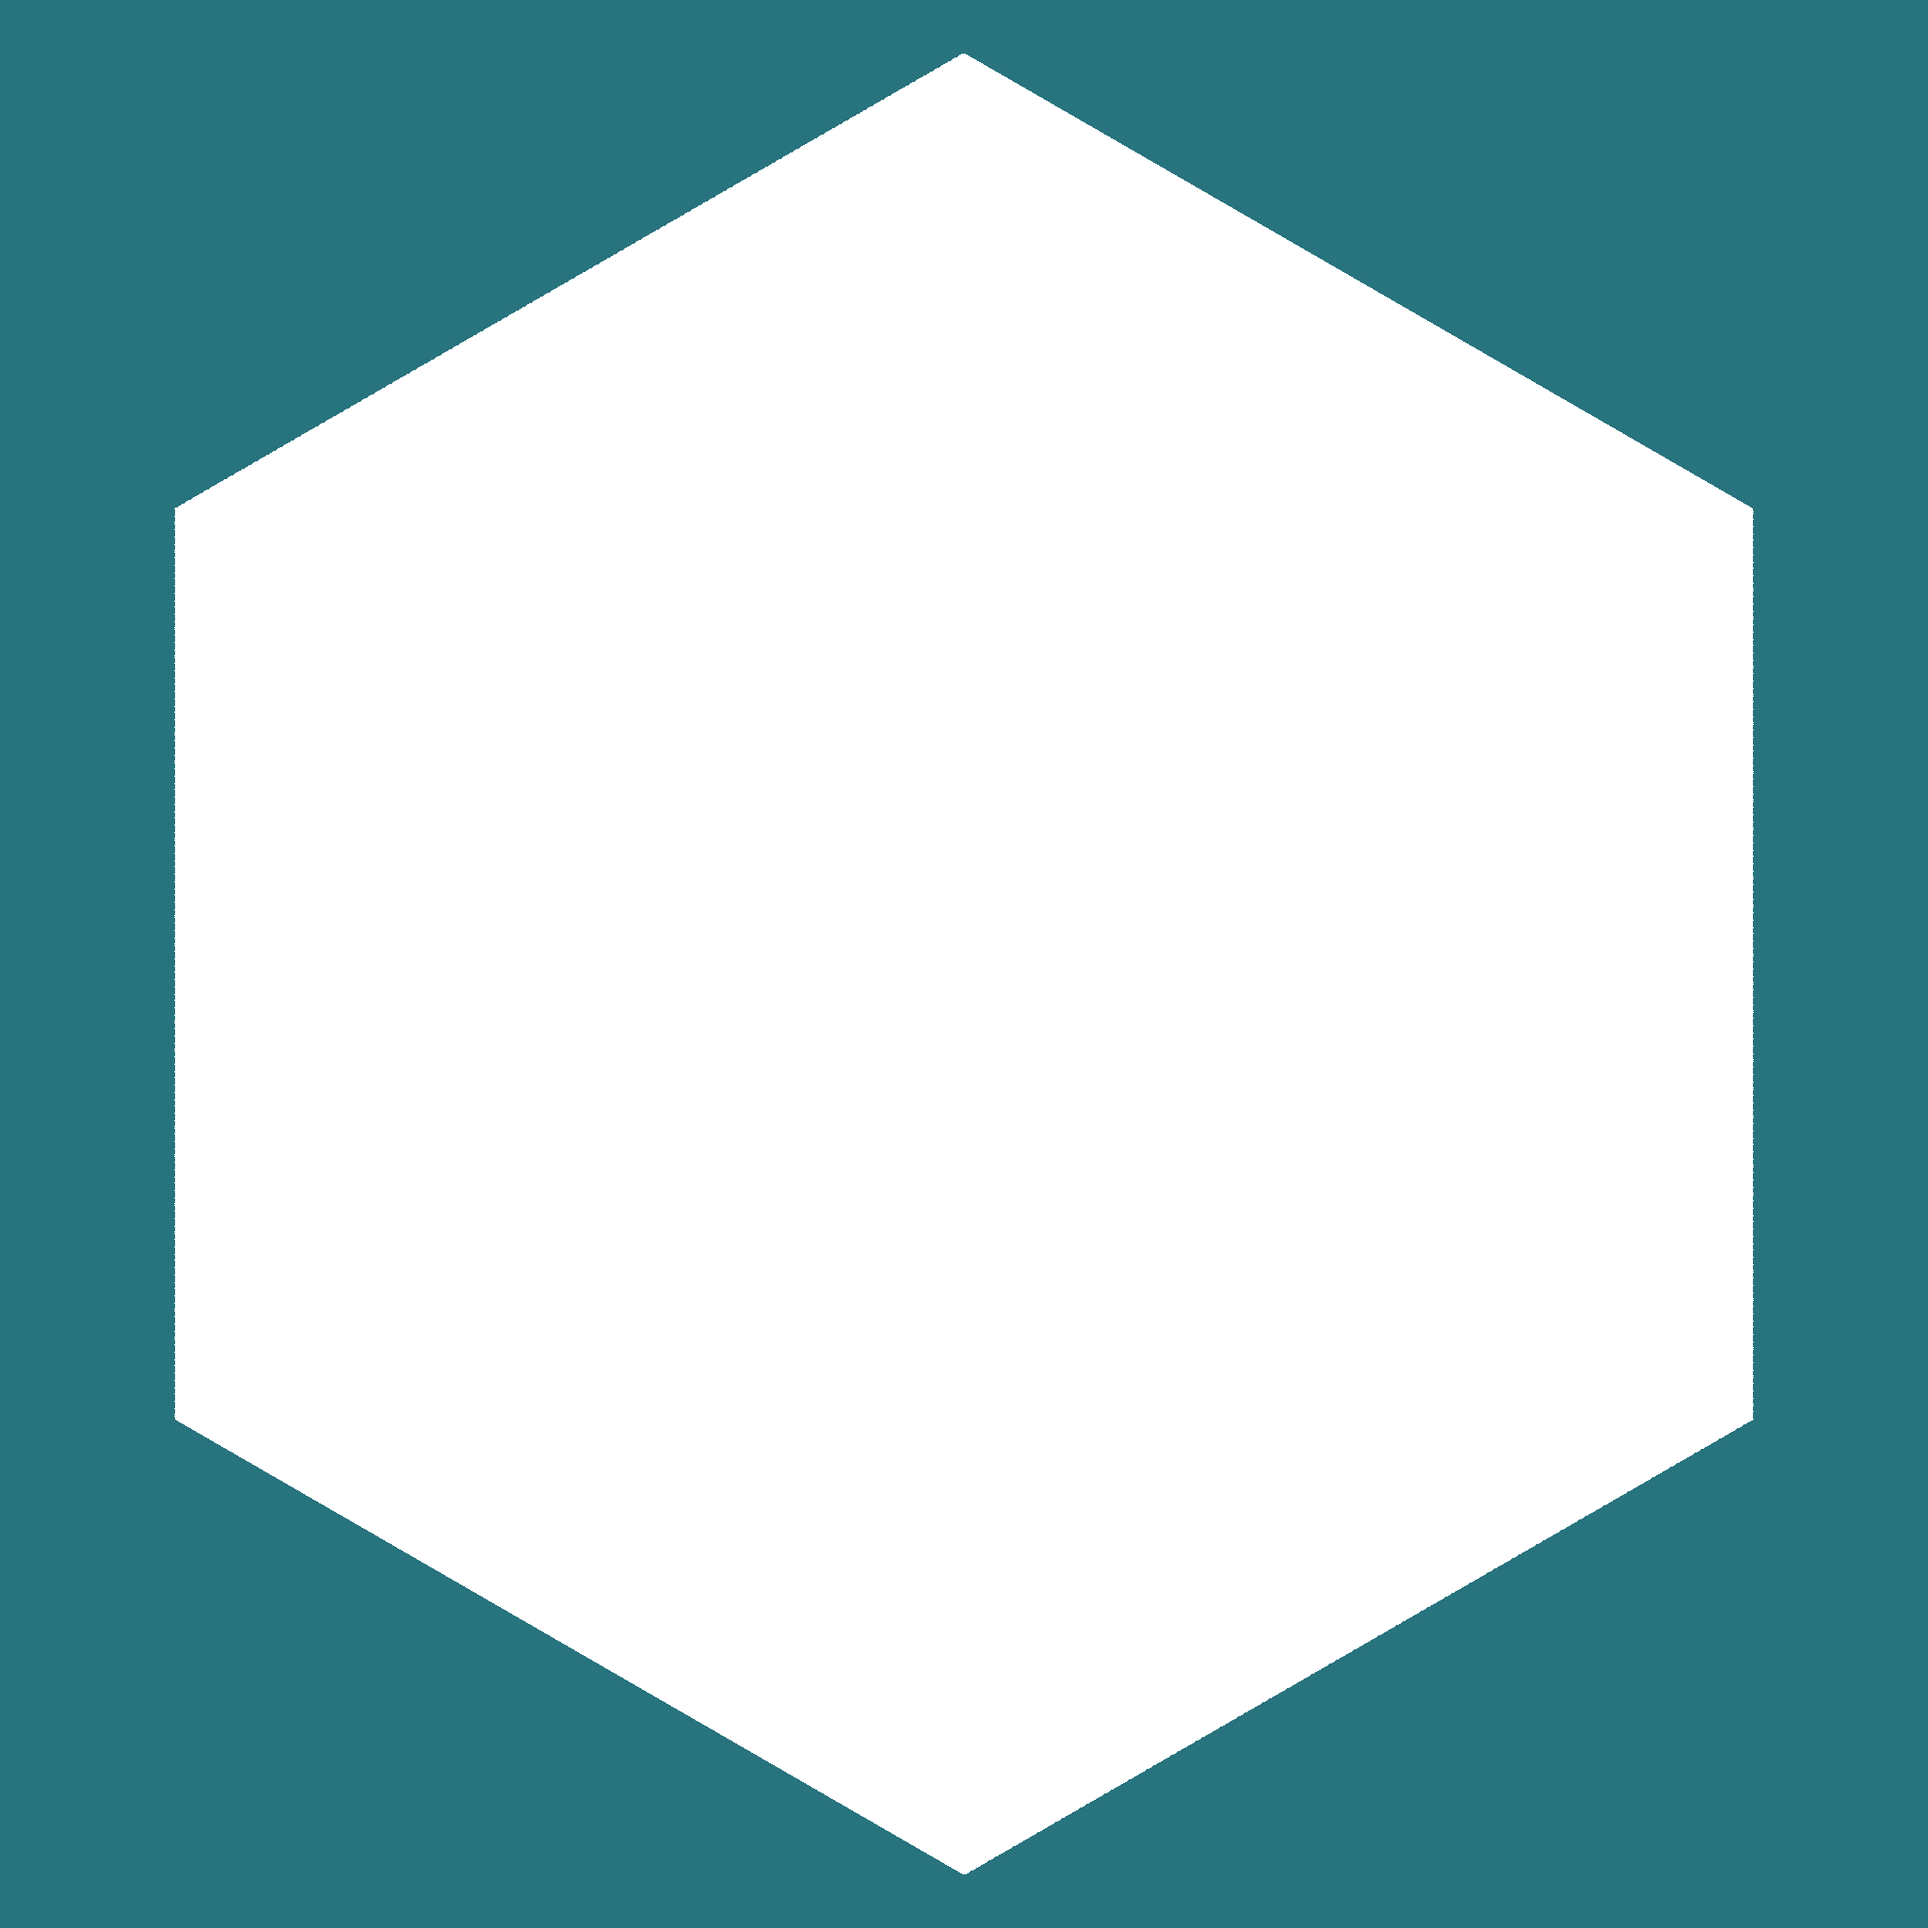
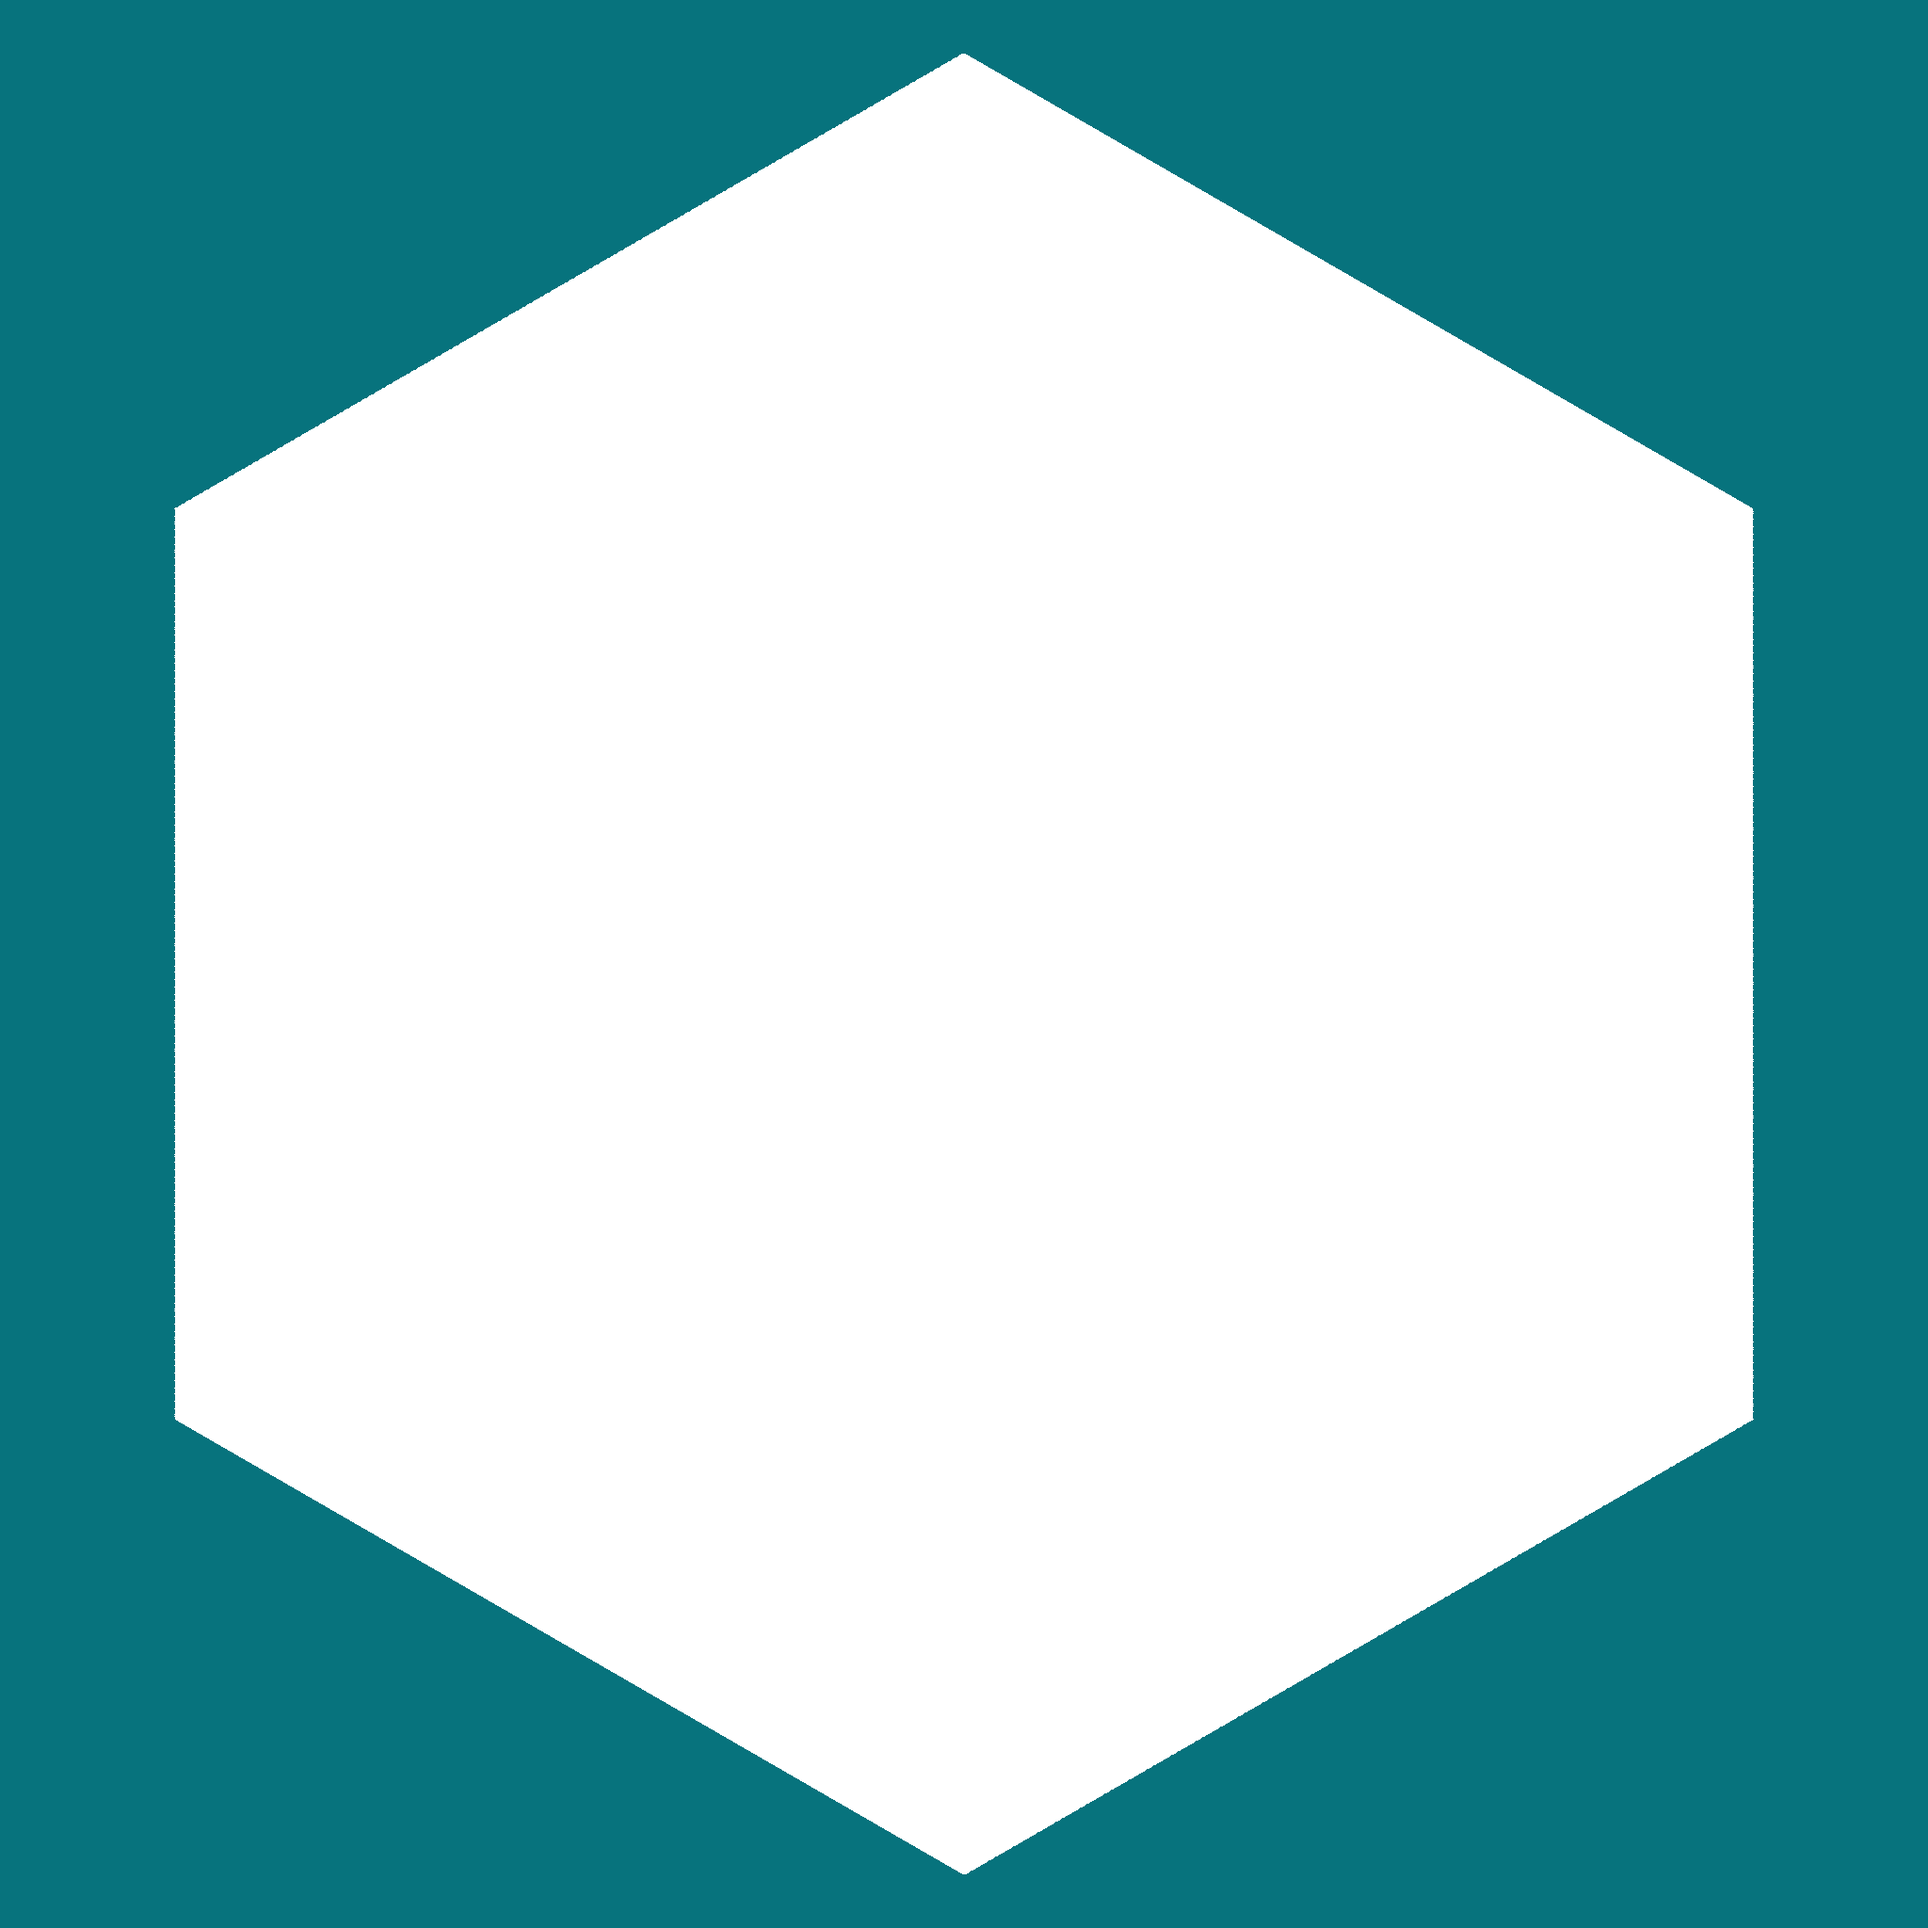
Make thumbnails background transparent

diff --git a/unionGov/gov/views.py b/unionGov/gov/views.py
@@ -102,7 +102,22 @@ def candidate(request, candidate_id):
     return render(request, "gov/candidate.html", {"candidate": candidate})
 
 
-def square(image, size, fill_color=(0, 0, 0, 0)):
+# Turn a given color in image into RGBA transparency
+def color2alpha(image, color=(7, 115, 125)):
+    data = image.getdata()
+    new_data = []
+    for pixel in data:
+        if pixel[0] == color[0] and pixel[1] == color[1] and pixel[2] == color[2]:
+            new_data.append((255, 255, 255, 0))
+        else:
+            new_data.append(pixel)
+    alpha_image = Image.new("RGBA", image.size)
+    alpha_image.putdata(new_data)
+    return alpha_image
+
+
+# Resize and crop an image to make it fill a square
+def square(image, size=256, fill_color=(0, 0, 0, 255)):
     x, y = image.size
     max_size = max(size, x, y)
     squared_image = Image.new("RGBA", (max_size, max_size), fill_color)
@@ -110,13 +125,13 @@ def square(image, size, fill_color=(0, 0, 0, 0)):
     return squared_image.resize((size, size), Image.ANTIALIAS)
 
 
-def get_thumbnail(request, candidate_id, size=96):
+# Given a candidate ID return a profile picture thumbnail
+def get_thumbnail(request, candidate_id):
     candidate = get_object_or_404(Candidate, pk=candidate_id)
-    background = square(
-        Image.open(f"{settings.MEDIA_ROOT}/{candidate.image_file}"), size
-    )
-    foreground = square(Image.open(f"{settings.STATIC_ROOT}/thumbnail.png"), size)
+    background = square(Image.open(f"{settings.MEDIA_ROOT}/{candidate.image_file}"))
+    foreground = square(Image.open(f"{settings.STATIC_ROOT}/thumbnail.png"))
     background.paste(foreground, (0, 0), foreground)
+    image = color2alpha(background)
     response = HttpResponse(content_type="image/png")
-    background.save(response, "PNG")
+    image.save(response, "PNG")
     return response
